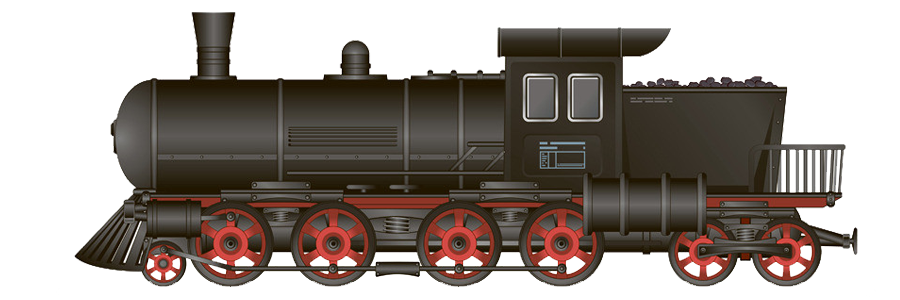
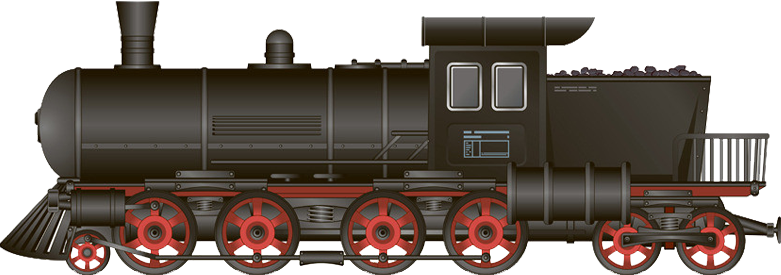
fix: wagon, stone, add glossary items

diff --git a/script.js b/script.js
@@ -1,10 +1,35 @@
 const glossary = [
-    { stone: 'хуй', wagon: 'за щеку' },
-    { stone: 'много', wagon: 'не пизди' },
-    { stone: 'ибо', wagon: 'нехуй' },
-    { stone: 'елочка', wagon: 'гори' },
-]
-
+    { stone: "Автоматическая блокировка (АБ)", wagon: "система сигнализации, обеспечивающая автоматическое управление движением поездов." },
+    { stone: "Автоматический тормоз", wagon: "тормозная система, приводимая в действие автоматически при нарушении нормальной работы." },
+    { stone: "Балластный слой", wagon: "слой щебня или гравия, на который укладывают рельсы для обеспечения устойчивости пути." },
+    { stone: "Вагон", wagon: "подвижной состав для перевозки грузов или пассажиров на железной дороге." },
+    { stone: "Верхнее строение пути", wagon: "комплекс элементов, обеспечивающих безопасность движения поездов (рельсы, шпалы, скрепления, балласт)." },
+    { stone: "Выемка", wagon: "искусственное углубление в земле, предназначенное для прокладки железнодорожного пути." },
+    { stone: "Габарит подвижного состава", wagon: "максимальные размеры транспортного средства, допустимые на железной дороге." },
+    { stone: "Двухпутная линия", wagon: "железнодорожная линия, состоящая из двух параллельных путей, по которым движение ведется в обоих направлениях." },
+    { stone: "Депо", wagon: "предприятие для ремонта, обслуживания и стоянки локомотивов и вагонов." },
+    { stone: "Зона таможенного контроля", wagon: "участок, где производится проверка и оформление грузов при международных перевозках." },
+    { stone: "Мультимодальные перевозки", wagon: "транспортировка грузов с использованием нескольких видов транспорта (например, железнодорожного и автомобильного)." },
+    { stone: "Логистическая цепочка", wagon: "последовательность действий, необходимых для перемещения товара от производителя до конечного потребителя." },
+    { stone: "Маршрут", wagon: "установленный путь движения транспорта для доставки грузов или пассажиров." },
+    { stone: "Перевалка грузов (перегруз)", wagon: "перемещение грузов с одного вида транспорта на другой в процессе интермодальных перевозок." },
+    { stone: "Склад временного хранения (СВХ)", wagon: "помещение, где хранятся товары до их таможенного оформления." },
+    { stone: "Аренда вагонов", wagon: "услуга, при которой владельцы вагонов предоставляют их в пользование другим организациям или физическим лицам на определенный срок." },
+    { stone: "Транспортно-экспедиционные услуги", wagon: "комплекс услуг, оказываемых экспедиторскими компаниями по организации перевозки грузов различными видами транспорта." },
+    { stone: "Дополнительные сборы", wagon: "различные платежи, которые взимаются помимо основной ставки за перевозку грузов или аренду вагонов." },
+    { stone: "Станционная работа", wagon: "комплекс операций, выполняемых на железнодорожных станциях, связанных с обслуживанием поездов и вагонов." },
+    { stone: "Погрузочно-разгрузочные работы", wagon: "процессы, связанные с перемещением груза в и из транспортных средств, таких как вагоны, автомобили или контейнеры." },
+    { stone: "Пломбирование вагонов", wagon: "процесс установки специальных пломб на вагоны после их загрузки, с целью обеспечения сохранности груза." },
+    { stone: "Дефектоскоп", wagon: "оборудование для проверки состояния вагонов и рельсов на наличие трещин и других повреждений." },
+    { stone: "Инвентарный парк вагонов", wagon: "парк вагонов, находящихся в собственности железной дороги и эксплуатируемых для перевозки грузов и пассажиров." },
+    { stone: "Колесная пара", wagon: "узел вагона, состоящий из двух колес и оси, передающий нагрузку на рельсы." },
+    { stone: "Кузов вагона", wagon: "основная конструкция вагона, предназначенная для размещения грузов или пассажиров." },
+    { stone: "Полувагон", wagon: "открытый грузовой вагон с высокими бортами, используемый для перевозки насыпных и навалочных грузов." },
+    { stone: "Ремонтный парк вагонов", wagon: "часть вагонов, временно выведенных из эксплуатации для проведения текущего или капитального ремонта." },
+    { stone: "Сцепка вагонов", wagon: "процесс соединения вагонов для формирования железнодорожного состава." },
+    { stone: "Тормозной путь", wagon: "расстояние, которое проходит поезд от момента начала торможения до полной остановки." },
+    { stone: "Цистерна", wagon: "специализированный вагон для перевозки жидких грузов, таких как нефть, химикаты или вода." }
+];
 // проверяем относится ли камень к вагону
 function checkIntoGlossary(stoneValue, wagonValue) {
     return !!glossary.find((item) =>
@@ -47,7 +72,7 @@ function drawWagons() {
         return `
             <div class="wagon" data-wagon="${item.wagon}">
                 <p class="wagon-text">${item.wagon}</p>
-                <img src="./images/wagon.png" alt="wagon">
+                <img class="wagon-img" src="./images/wagon.png" alt="wagon">
                 <div class="wagon-wheels">
                     <div class="wagon-wheel wagon-wheel-1">
                         <img src="./images/wheel.png" alt="wheel">
@@ -100,7 +125,7 @@ function drawWagons() {
 }
 
 // логика игры, слушаем разные события (drag and drop и пр.)
-function listenGame() {
+function listenGame(token) {
     const stones = document.querySelectorAll(".stone");
 
     stones.forEach((stone) => {
@@ -138,13 +163,15 @@ function listenGame() {
 
             if (elementBehind) {
                 // если это вагон
-                if (elementBehind.classList.contains("wagon")) {
-                    const stoneValue = stone.getAttribute('data-stone');
-                    const wagonValue = elementBehind.getAttribute('data-wagon');
+                if (elementBehind.classList.contains("wagon", "wagon-text", "wagon-wheels", "wagon-img")) {
+                    const stoneValue = stone.getAttribute('data-stone')
+                    const wagonValue = elementBehind.getAttribute('data-wagon')
                     if (checkIntoGlossary(stoneValue, wagonValue)) {
                         incrementScore()
                     }
                     stone.remove()
+                    elementBehind.querySelector('.wagon-img').style.filter = "grayscale(80%)"
+                    elementBehind.querySelector('.wagon-text').style.display = "none"
                     checkCountStones()
                 }
             }

diff --git a/style.css b/style.css
@@ -24,7 +24,6 @@
 
 .stone {
     position: relative;
-    width: 120px;
     padding: 20px 25px;
     background: #eae6ed;
     box-shadow: inset -28px -22px 36px #778, inset 38px 18px 36px #fffffc, 12px 8px 18px hsla(0,0%,0%,0.25);
@@ -182,13 +181,11 @@ body {
     display: flex;
     justify-content: center;
     align-items: center;
-    gap: 7px;
-    -webkit-animation: voyage 20s linear infinite;
-    animation: voyage 20s linear infinite;
+    -webkit-animation: voyage 50s linear infinite;
+    animation: voyage 50s linear infinite;
 }
 
 .locomotive {
-    width: 300px;
     display: flex;
     position: relative;
 }
@@ -198,7 +195,7 @@ body {
 }
 
 .locomotive-main img {
-    width: 300px;
+    width: 280px;
 }
 
 .locomotive-wheels {
@@ -215,20 +212,20 @@ body {
 
 .locomotive-wheel-1 {
     width: 35px;
-    left: 20px;
+    left: 7px;
 }
 
 .locomotive-wheel-2 {
     width: 35px;
-    left: 50px;
+    left: 40px;
 }
 
 .locomotive-wheel-3 {
-    left: 90px;
+    left: 88px;
 }
 
 .locomotive-wheel-4 {
-    left: 127px;
+    left: 123px;
 }
 
 .locomotive-wheel-5 {
@@ -249,11 +246,9 @@ body {
 }
 
 .wagon {
-    width: 230px;
     height: 175px;
     position: relative;
     z-index: 10;
-    background: red;
 }
 
 .wagon-wheels {
@@ -274,19 +269,19 @@ body {
 }
 
 .wagon-wheel-1 {
-    left: 35px;
+    left: 3px;
 }
 
 .wagon-wheel-2 {
-    left: 63px;
+    left: 35px;
 }
 
 .wagon-wheel-3 {
-    right: -11px;
+    right: 3px;
 }
 
 .wagon-wheel-4 {
-    right: -40px;
+    right: 35px;
 }
 
 .wagon-wheel img {
@@ -294,20 +289,21 @@ body {
 }
 
 .wagon-text {
-    width: 100%;
+    width: 80%;
     position: absolute;
-    bottom: 40%;
-    left: 65%;
+    bottom: 30%;
+    left: 50%;
     transform: translate(-50%, -50%);
-    font-size: 14px;
+    font-size: 12px;
     font-weight: 500;
     color: white;
     text-align: center;
 }
 
-.wagon img {
+.wagon-img {
+    margin-top: 16px;
     position: relative;
-    width: 300px;
+    width: 250px;
     z-index: -1;
 }
 
@@ -390,10 +386,10 @@ body {
 
 @keyframes voyage {
     0% {
-        left: -80%;
+        left: -260%;
     }
     100% {
-        left: 80%;
+        left: 100%;
     }
 }
 

diff --git a/index.html b/index.html
@@ -13,9 +13,6 @@
 <section class="menu">
     <div class="menu-wrapper">
         <div class="menu-item">
-            <a href="#" class="menu-link">Меню</a>
-        </div>
-        <div class="menu-item">
             <div class="score">
                 <span class="score-text">Score: </span>
                 <span id="score-value" class="score-value">0</span>
